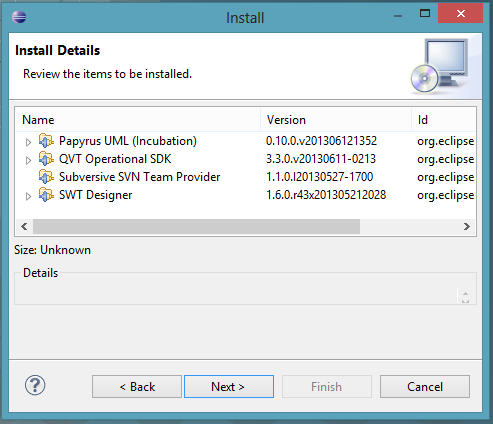
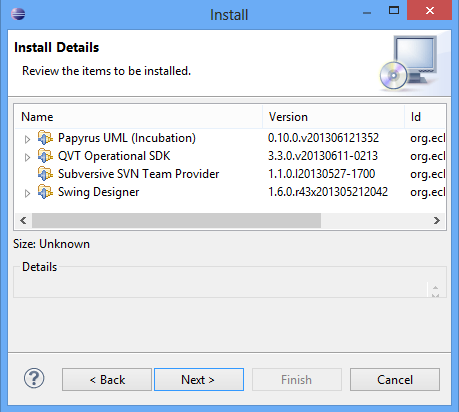
Changed Tutorial --> Recommendation to use Swing Designer (was SWT Designer)

diff --git a/lectures/mdsd/01_setting_up_eclipse.md b/lectures/mdsd/01_setting_up_eclipse.md
@@ -22,8 +22,8 @@ Please follow these steps to install and prepare Eclipse for the practical cours
       *for UML diagrams*
    * **Collaboration** > **Subversive SVN Team Provider**  
       *(even if you do not plan to use SVN, installing this allows you to actually install a SVN provider later, so that you are not prompted to select one any time Eclipse starts)*
-   * **General Purpose Tools** > **SWT Designer**  
-      *... optional, simplifies development of user interfaces with SWT.*
+   * **General Purpose Tools** > **Swing Designer**  
+      *... optional, simplifies development of user interfaces with Swing.*
 
     ![Eclipse --> Install New Software...](images/install_software.png)
     Eclipse --> Install New Software...
